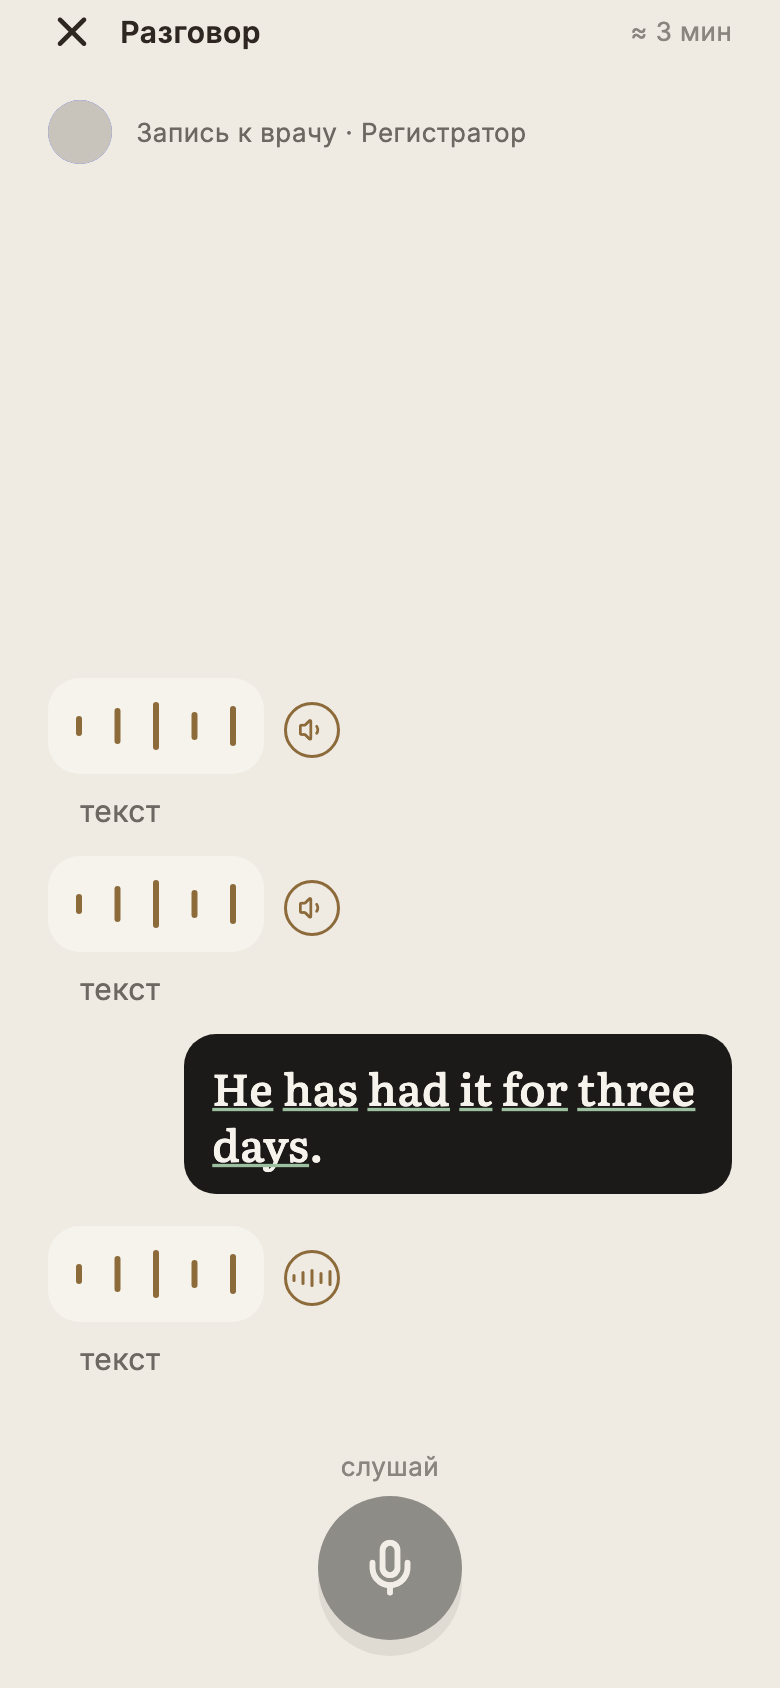
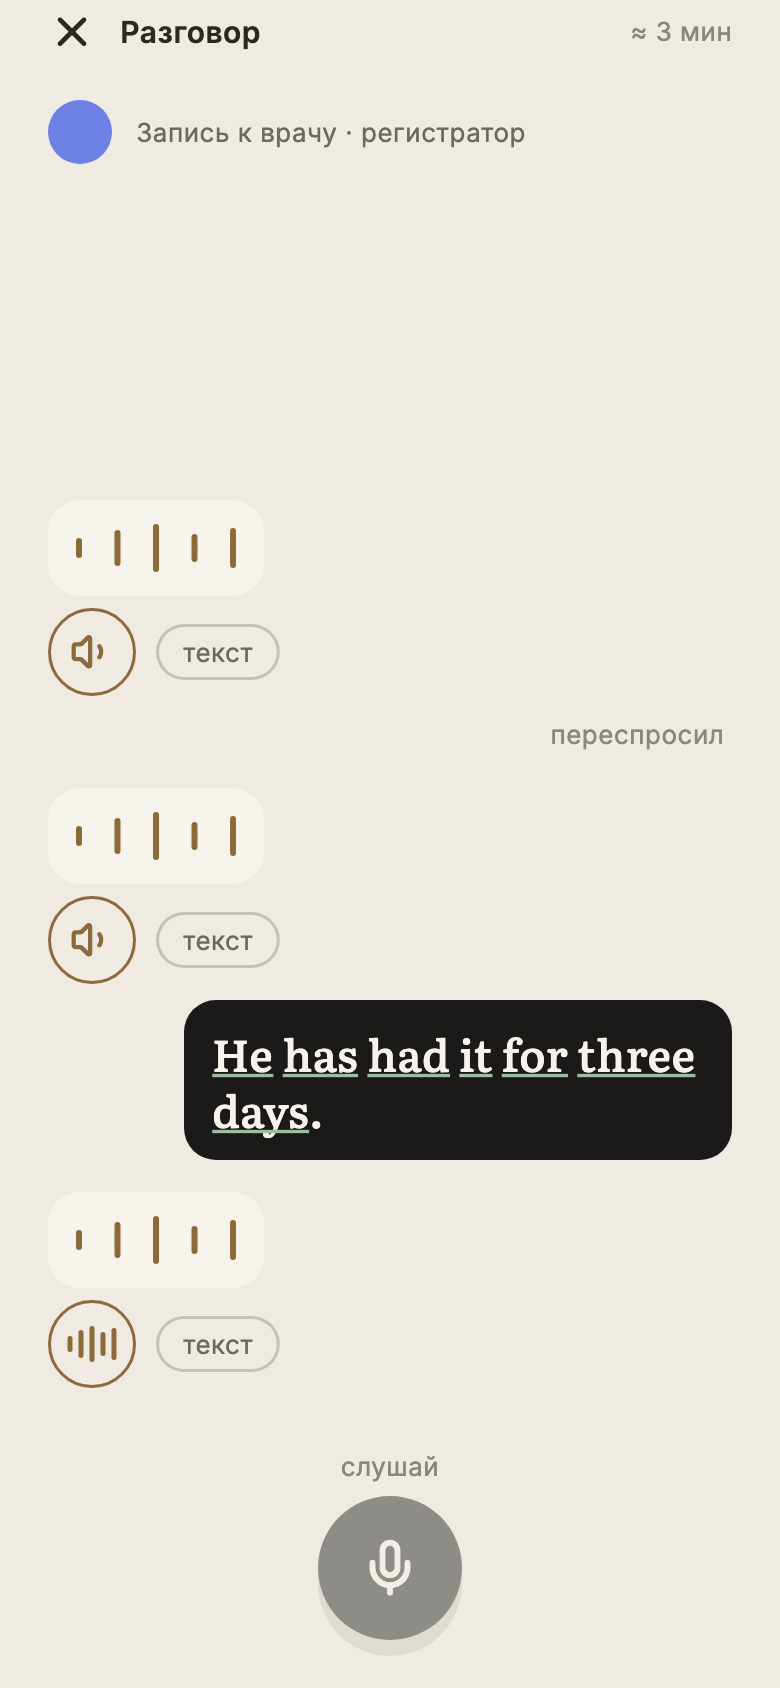
docs(plan): CLIENT-CONV-1a — снимки 03, 07, 13, 20 по правке 21.09, хеш в отчёте
Снимки 03, 07, 13, 20 перерисованы харнессом (--name '^(03|07|13|20) '):
под пузырём роли — ряд «прослушать» 44 и чип «текст», роль в полосе со
строчной; остальные 22 — как были. Живые кадры 24–25 с симулятора против
e2e (повторный вход, без покупки). Отчёт §1.7, §2, §3, §6, §7 (08e604ab),
design-map, handoff.

diff --git a/backend2/docs/research/client-conv-1a/README.md b/backend2/docs/research/client-conv-1a/README.md
@@ -8,7 +8,7 @@
 замещает экран целиком; телефону принадлежат ровно три вещи, которых у сервера нет полей: звучит ли
 реплика роли, прервали ли её тапом и пять секунд молчания до чипа подсказки.
 
-Коммиты: `473a9e0f` (код и тесты), `feca5fdd` (отчёт, снимки, карта дизайна, ROADMAP, handoff), `5da280a4` (два дефекта живого прогона), `2e831558` (три находки второго живого прогона).
+Коммиты: `473a9e0f` (код и тесты), `feca5fdd` (отчёт, снимки, карта дизайна, ROADMAP, handoff), `5da280a4` (два дефекта живого прогона), `2e831558` (три находки второго живого прогона), `08e604ab` (правка 21.09: ряд под пузырём, роль со строчной).
 
 ---
 
@@ -43,8 +43,10 @@
   «Поговори с собеседником», «около N минут» из `stages[].minutes_left`, три строки правил,
   «Без подсказок», «Начать разговор» → `POST …/days/{n}/conversation`. Повторный вход — тот же вызов:
   открытая на день одна, сервер возвращает её же.
-- **37-6 агент говорит.** Пузырь роли с волной, текст закрыт; «прослушать» 28 рядом, «текст» под
-  пузырём. Микрофон погашен, подпись «слушай».
+- **37-6 агент говорит.** Пузырь роли с волной, текст закрыт; ПОД пузырём — один ряд из двух:
+  «прослушать» 44 и чип «текст» (контур чернил 22 %, 28 в высоту, скругление 14, касание 44). Кружка
+  рядом с пузырём и голого серого слова под ним нет (правка архитектора 21.09, §1.7). Микрофон
+  погашен, подпись «слушай».
 - **37-9 прерывание.** Тап по микрофону, пока роль говорит: звук стоп, реплика остаётся в ленте с
   пометкой «прервано», микрофон УЖЕ слушает. Серверу об этом не говорят.
 - **37-7 твоя очередь.** Кольцо латунью 1,6 с, «тап — говорить»; «Не понял» слева ВО ВСЕХ состояниях
@@ -97,7 +99,7 @@
 
 Переписан на компоненте ленты разговора — те же пузыри и тот же микрофон, что 37-6…37-8, с двумя
 названными канвой отличиями: текст реплики собеседника ОТКРЫТ сразу (это тренажёр), и левый выход —
-«Пропустить», а не «Не понял».
+«Пропустить», а не «Не понял». «Прослушать» 44 — под пузырём собеседника, как в ленте (§1.7).
 
 Задание до подсказки на экране не стоит вовсе: свой пузырь появляется, только когда в нём есть что
 показать. 5 с молчания или «Подсказать» → чип с заданием на родном, кнопка уходит. Не зачтено —
@@ -121,6 +123,20 @@
 время реплики роли — это прерывание И начало записи, но это всё ещё тап. Проверено на обоих экранах
 (тесты «микрофон не открывается сам» в разговоре и в 35-2).
 
+### 1.7. Правка архитектора 21.09 — ряд под пузырём и роль со строчной
+
+- **Пузырь роли** (37-6 и все состояния ленты: звучит, прошла, прервана, открыта; 35-2): под пузырём —
+  ОДИН ряд, «прослушать» 44 и чип «текст». Текст открыт — чип уходит, «прослушать» остаётся один;
+  «Без подсказок» — чипа нет с самого начала; «прервано» стоит между пузырём и рядом (как в 37-9).
+  Кадр 37-6 рисует ту же пару ВНУТРИ плашки и «прослушать» 28 — сделано по правке: 44 и под пузырём.
+- **Полоса сцены**: роль со строчной — «Приём у врача · врач». Клиент опускает первую букву
+  `partner_role_native` (`SessionTexts.roleInline` — то же правило, что у строки-спутника «регистратор
+  поймёт»); аббревиатура держит заглавные («ЛОР» не станет «лОР» — буква опускается, только если за
+  ней уже строчная; это же правило теперь и у строки-спутника). Заголовки и брови не тронуты: бровь
+  «Врач · спрашивает» получает роль как прислал сервер (проверено тестом).
+- Проверено на симуляторе против e2e (повторный вход в открытый разговор — без покупки): кадры
+  `live/24-row-under-bubble.png`, `live/25-row-text-open.png`.
+
 ---
 
 ## §2. Что снесено
@@ -135,6 +151,7 @@
 | «прослушать» у вариантов 32-4 | кадр 32-4 |
 | `sessionStageMark` (второй список «этап → значок») | остался один — `planStageMark` |
 | `PlanRouteStage.fromJson` | заменён `PlanRouteStage.maybe`: чужой этап пропускается |
+| кружок «прослушать» 28 рядом с пузырём роли и серое слово «текст» (`SessionTextExit`) под ним | правка архитектора 21.09: один ряд под пузырём — «прослушать» 44 и чип «текст» (`TalkTextChip`) |
 
 Отменено правило SESSION-2b §1 про выбор значения на 32-1 и правило FIX-1 §5 про «по смыслу ✓» в
 повторе — оба сняты кадрами, как они читаются сейчас. Названо здесь, чтобы не возвращалось молча.
@@ -162,6 +179,7 @@
 | сбой — сказанное остаётся в ленте | плашка «связь пропала» над лентой, из которой пропало только что сказанное |
 | переспрос — пометка в ленте, не тёмный пузырь | две одинаковые реплики роли подряд без знака между ними (живой прогон, кадр 08); пустой тёмный пузырь на месте переспроса |
 | микрофон не пишет — сказано, и «Разрешить» спрашивает систему | «тап — говорить» над кнопкой, которая ничего не делает (живой прогон, симулятор без распознавания) |
+| 37-6: «прослушать» 44 и «текст» — одним рядом под пузырём, во всех состояниях ленты | кружок 28 справа от пузыря и серое «текст» отдельной строкой — лента до правки 21.09; в каждом состоянии: звучит, прошлая реплика, прервана («прервано» между пузырём и рядом), открыта (чип ушёл) |
 | прощание — лист над лентой, «Итог» ведёт к счёту сервера | итог, посчитанный на телефоне; лист, накрывший ленту целиком |
 | документ без поля — ошибка контракта | разбор, подставляющий ноль вместо пропавшего счёта («0 из 0») |
 | итог репетиции: несказанное не возвращается завтра | возврат, выведенный из `type == rehearsal` вместо поля `returns_tomorrow` |
@@ -173,6 +191,14 @@
 | заглавная и точка сервера не попадают внутрь чужого предложения | «Скажи, что У моего сына температура.» — чип первого живого захода |
 | сокращение, вопрос и многоточие остаются как есть | правка регистра, которая портит «США» или съедает «?» и «...» |
 | родительный падеж после «около» | «около 3 минуты» на входе 37-5 — первый живой заход |
+
+### Полоса сцены — `mobile/test/features/plan/session/session_scene_strip_test.dart`
+
+| тест | что ловит |
+|---|---|
+| полоса сцены: роль со строчной | «Приём у врача · Врач» — полоса до правки 21.09 |
+| аббревиатура в роли остаётся как есть | «лОР» вместо «ЛОР» |
+| бровь «… · спрашивает» — роль как прислал сервер | правку, расползшуюся из полосы по заголовкам |
 
 ### Состав дня — `session_queue_test.dart`, `session_day_summary_test.dart`, `plan_canon_test.dart`
 
@@ -195,6 +221,7 @@
 | 35-2: в «Без подсказок» нет ни чипа, ни кнопки | чип по пятисекундному таймеру независимо от режима |
 | 35-2: «Спроси сам» — намерение светлой плашкой | намерение тёмным пузырём, то есть выданное за речь ученика |
 | 35-2: микрофон не открывается сам | карточка, включающая запись по концу реплики собеседника |
+| 35-2: пузырь собеседника — «прослушать» 44 под пузырём, кружка рядом нет | кружок 28 справа от пузыря — 35-2 до правки 21.09 |
 | свой пузырь — только сказанное: ни перевода, ни отметки оценки | возврат значка оценки — и в проходе, и в повторе, где судьи нет |
 | 32-1: значения — нейтральные плашки | возврат тапаемых чипов, пропавшая подпись, старая кнопка «Понятно» |
 | 32-1: одно значение — строка-суть и «В разговоре» | окно с одной плашкой; блок «В разговоре», нарисованный без реплики дня |
@@ -485,7 +512,15 @@ cd mobile && flutter test test/features/plan/conversation/talk_shots_test.dart -
 
 Без ключа тот же файл — обычный тест: каждый экран рисуется и ничего не переполняет.
 
-26 кадров оставлены как есть (решение архитектора, 21.09): три исправления живого прогона (своя
+Кадры **03, 07, 13, 20 перерисованы** по правке архитектора 21.09 (ряд под пузырём, роль в полосе
+со строчной) — на них видна и пометка «переспросил» живого прогона:
+
+```bash
+cd mobile && flutter test test/features/plan/conversation/talk_shots_test.dart --dart-define=TALK_SHOTS=true --name '^(03|07|13|20) '
+```
+
+Остальные 22 оставлены как есть (решение архитектора): на них пузырь роли ещё со старым кружком
+рядом и серым «текст», полоса — с «Врач» / «Регистратор»; три исправления живого прогона (своя
 реплика в полёте, пометка переспроса, «Нужен микрофон») в них не перерисованы — они видны на живых
 кадрах 13, 16–19 (§4.4).
 
@@ -499,10 +534,13 @@ cd mobile && flutter test test/features/plan/conversation/talk_shots_test.dart -
 | отчёт, 26 снимков, design-map, ROADMAP, handoff, харнесс снимков | `feca5fdd` |
 | два дефекта, пойманные живым прогоном («около 3 минут», чип придаточным) | `5da280a4` |
 | три находки второго захода (своя реплика в полёте, «переспросил», «Нужен микрофон») | `2e831558` |
-| живые кадры 01–23, стенограммы заходов, отчёт §4–§5, ROADMAP, handoff | коммит с этим отчётом |
+| живые кадры 01–23, стенограммы заходов, отчёт §4–§5, ROADMAP, handoff | `2a22db54`, `dbf40664` |
+| правка архитектора 21.09: «прослушать» 44 и «текст» под пузырём, роль в полосе со строчной | `08e604ab` |
+| снимки 03, 07, 13, 20, живые кадры 24–25, отчёт §1.7 | коммит с этим отчётом |
 
 Ворота (в конце наряда, после `2e831558`): `flutter analyze` — **чисто**, `flutter test` — **1 605
-passed** (было 1 598 до второго захода; +4 теста живых находок, +3 — чип и минуты).
+passed** (было 1 598 до второго захода; +4 теста живых находок, +3 — чип и минуты). После правки
+21.09 — **1 610 passed** (+5: ряд под пузырём в ленте и в 35-2, три — полоса сцены).
 
 **Хук ворот два последних коммита не прогнал** (`2e831558`, `2a22db54`): он читает только ПЕРВОЕ
 `git` в строке, а коммит шёл одной строкой `git add … && git commit …` — хук увидел `add` и

diff --git a/backend2/docs/session-handoff.md b/backend2/docs/session-handoff.md
@@ -9,9 +9,13 @@
 
 Branch: `main`. Last updated: 2026-09-21. Закрыт наряд **CLIENT-CONV-1a** (только `mobile/`):
 **разговор в дне на клиенте** — шесть этапов из ответа сервера, экраны 37-5…37-12, переделка 34-5 и
-35-2 на ленте разговора, серия 32 по канве. Коммиты `473a9e0f`, `feca5fdd`, `5da280a4`, `2e831558`.
+35-2 на ленте разговора, серия 32 по канве. Коммиты `473a9e0f`, `feca5fdd`, `5da280a4`, `2e831558`, `08e604ab`.
 Отчёт — `docs/research/client-conv-1a/README.md`, 26 снимков состояний — `…/shots/` (оставлены как
 есть, решение архитектора), живые кадры и стенограммы — `…/live/`.
+
+**Правка архитектора 21.09** (после снимков): под пузырём роли — один ряд «прослушать» 44 и чип
+«текст» (37-6, все состояния ленты, 35-2); роль в полосе сцены со строчной («Приём у врача · врач»),
+заголовки не тронуты. Снимки 03, 07, 13, 20 перерисованы; отчёт §1.7.
 
 **Живая проверка пройдена тапами на симуляторе** (iOS 26.5) против `wordtrainer_e2e_test`, два захода
 до итога дня: вход, чип, ход, «врач думает», подчерк фраз, переспрос, **прерывание** реплики роли,
